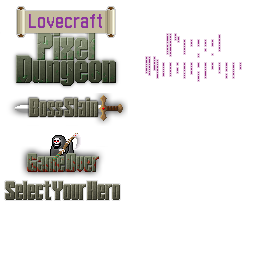
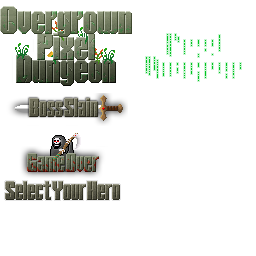
0.0.1 changed visuals

Changed region(s): [[0.0, 0.0, 0.5312, 0.3438], [0.5625, 0.125, 0.9688, 0.3125]]

diff --git a/core/src/main/java/com/lovecraftpixel/lovecraftpixeldungeon/effects/Fireball.java b/core/src/main/java/com/lovecraftpixel/lovecraftpixeldungeon/effects/Fireball.java
@@ -29,7 +29,6 @@ import com.watabou.glwrap.Texture;
 import com.watabou.noosa.Game;
 import com.watabou.noosa.Group;
 import com.watabou.noosa.Image;
-import com.watabou.noosa.particles.Emitter;
 import com.watabou.noosa.particles.PixelParticle;
 import com.watabou.noosa.ui.Component;
 import com.watabou.utils.ColorMath;
@@ -43,11 +42,10 @@ public class Fireball extends Component {
 	private static final RectF FLAME1 = new RectF( 0.50f, 0, 0.75f, 1 );
 	private static final RectF FLAME2 = new RectF( 0.75f, 0, 1.00f, 1 );
 	
-	private static final int COLOR = 0xFF66FF;
+	private static final int COLOR = 0x28A900;
 	
 	private Image bLight;
 	private Image fLight;
-	private Emitter emitter;
 	private Group sparks;
 	
 	@Override
@@ -61,19 +59,6 @@ public class Fireball extends Component {
 		bLight.origin.set( bLight.width / 2 );
 		bLight.angularSpeed = -90;
 		add( bLight );
-		
-		emitter = new Emitter();
-		emitter.pour( new Emitter.Factory() {
-			@Override
-			public void emit(Emitter emitter, int index, float x, float y) {
-				Flame p = (Flame)emitter.recycle( Flame.class );
-				p.reset();
-				p.heightLimit(Fireball.this.y - 30);
-				p.x = x - p.width / 2;
-				p.y = y - p.height / 2;
-			}
-		}, 0.1f );
-		add( emitter );
 		
 		fLight = new Image( Assets.FIREBALL );
 		fLight.frame( FLIGHT );
@@ -89,12 +74,6 @@ public class Fireball extends Component {
 		
 		bLight.x = x - bLight.width / 2;
 		bLight.y = y - bLight.height / 2;
-		
-		emitter.pos(
-			x - bLight.width / 4,
-			y - bLight.height / 4,
-			bLight.width / 2,
-			bLight.height / 2 );
 		
 		fLight.x = x - fLight.width / 2;
 		fLight.y = y - fLight.height / 2;
@@ -121,59 +100,5 @@ public class Fireball extends Component {
 		Blending.setLightMode();
 		super.draw();
 		Blending.setNormalMode();
-	}
-	
-	public static class Flame extends Image {
-		
-		private static float LIFESPAN	= 1f;
-		
-		private static float SPEED	= -40f;
-		private static float ACC	= -20f;
-		
-		private float timeLeft;
-		private float heightLimit;
-		
-		public Flame() {
-			
-			super( Assets.FIREBALL );
-			
-			frame( Random.Int( 2 ) == 0 ? FLAME1 : FLAME2 );
-			origin.set( width / 2, height / 2 );
-			acc.set( 0, ACC );
-		}
-		
-		public void reset() {
-			revive();
-			timeLeft = LIFESPAN;
-			speed.set( 0, SPEED );
-		}
-
-		public void heightLimit(float limit){
-			heightLimit = limit;
-		}
-		
-		@Override
-		public void update() {
-			
-			super.update();
-
-			if (y < heightLimit){
-				y = heightLimit;
-				speed.set(Random.Float(-20, 20), 0);
-				acc.set(0, 0);
-			}
-			
-			if ((timeLeft -= Game.elapsed) <= 0) {
-				
-				kill();
-				
-			} else {
-				
-				float p = timeLeft / LIFESPAN;
-				scale.set( p );
-				alpha( p > 0.8f ? (1 - p) * 5f : p * 1.25f );
-				
-			}
-		}
 	}
 }

diff --git a/core/src/main/java/com/lovecraftpixel/lovecraftpixeldungeon/scenes/TitleScene.java b/core/src/main/java/com/lovecraftpixel/lovecraftpixeldungeon/scenes/TitleScene.java
@@ -78,8 +78,8 @@ public class TitleScene extends PixelScene {
 
 		align(title);
 
-		placeTorch(title.x + 22, title.y + 46);
-		placeTorch(title.x + title.width - 22, title.y + 46);
+		//placeTorch(title.x + 22, title.y + 46);
+		//placeTorch(title.x + title.width - 22, title.y + 46);
 
 		Image signs = new Image( BannerSprites.get( BannerSprites.Type.PIXEL_DUNGEON_SIGNS ) ) {
 			private float time = 0;

diff --git a/core/src/main/java/com/lovecraftpixel/lovecraftpixeldungeon/ui/Archs.java b/core/src/main/java/com/lovecraftpixel/lovecraftpixeldungeon/ui/Archs.java
@@ -93,8 +93,8 @@ public class Archs extends Component {
 			shift = -shift;
 		}
 
-		arcsBg.offset( 0, shift );
-		arcsFg.offset( 0, shift * 2 );
+		arcsBg.offset( shift, shift );
+		arcsFg.offset( -shift*2, -shift * 2 );
 
 		offsB = arcsBg.offsetY();
 		offsF = arcsFg.offsetY();
